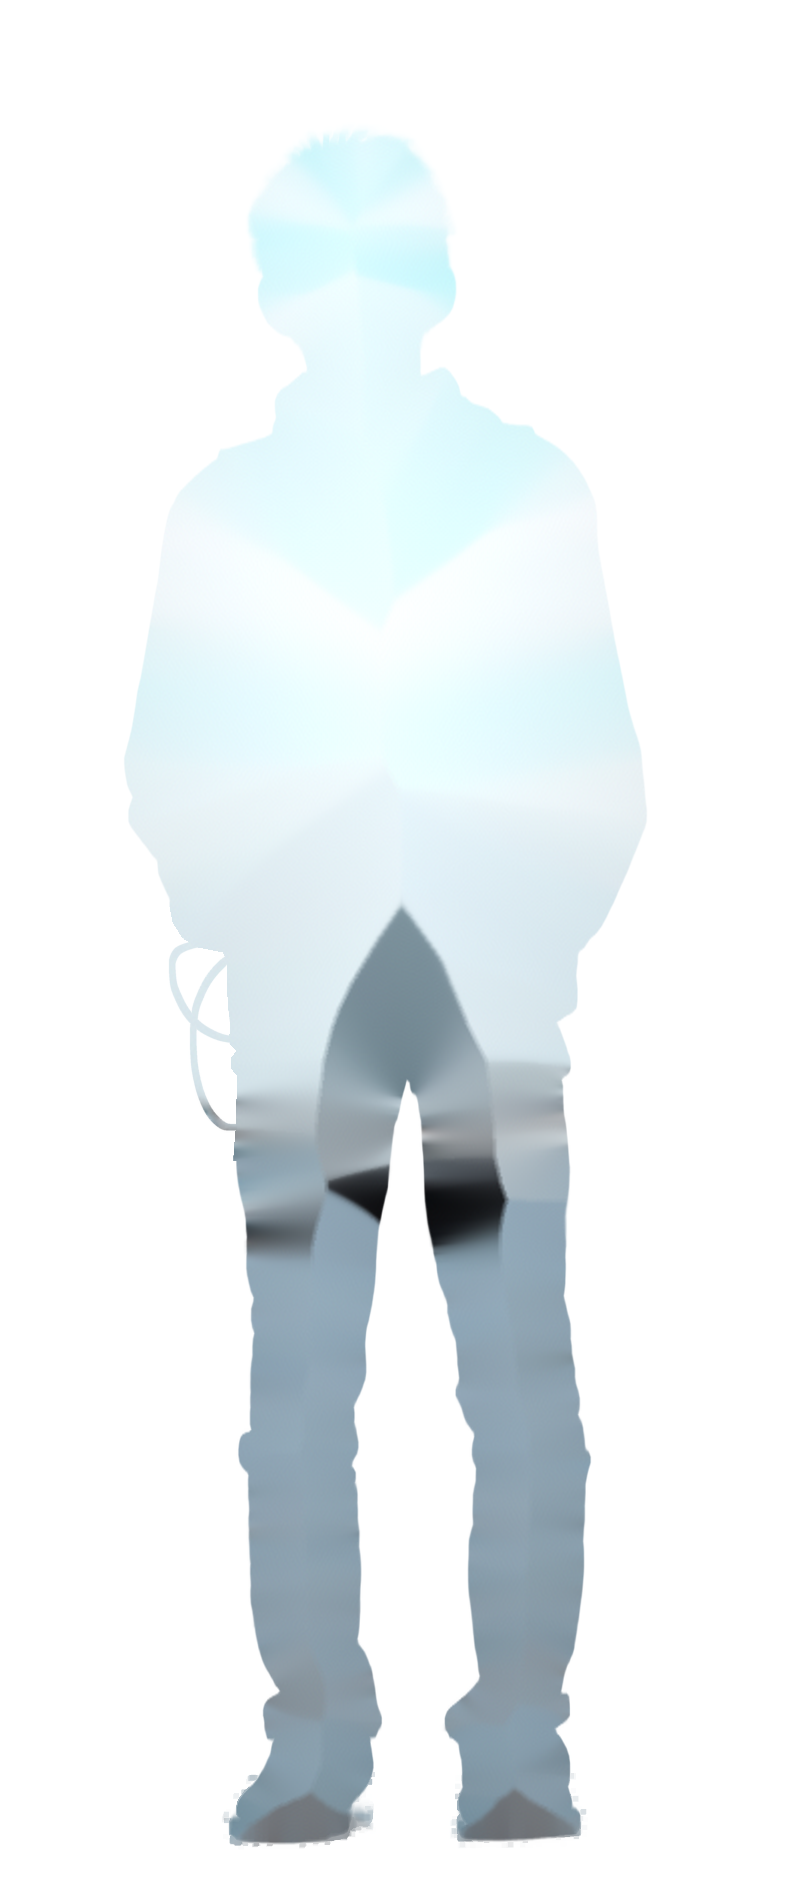
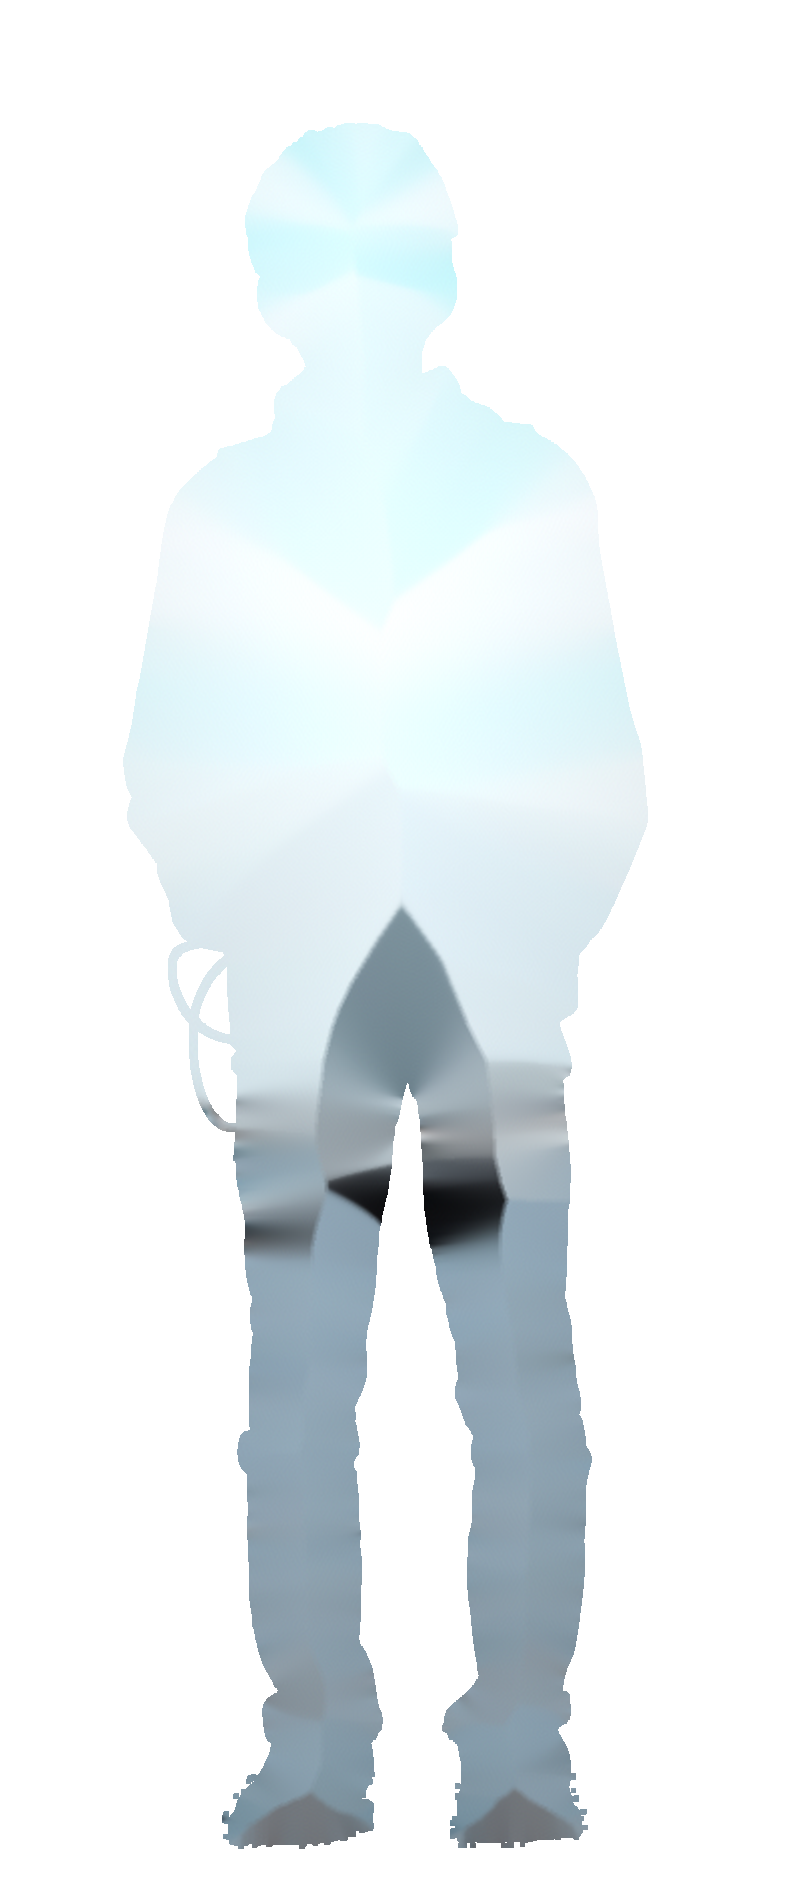
fix: increase mouse parallax travel and cover stationary hair edges

diff --git a/src/scripts/parallax.ts b/src/scripts/parallax.ts
@@ -36,11 +36,11 @@ function render() {
   // Return to the high-resolution original before the cable becomes enlarged.
   const strength = Math.max(0, 2 - zoomScale) ** 2;
   // Shared vertical travel keeps feet planted and architectural edges aligned.
-  const y = currentY * 0.03 * 18 * strength;
+  const y = currentY * 0.03 * 45 * strength;
   // Grow edge coverage with the spring position, avoiding a zoom jump on load.
-  const overscan = 1 + 0.004 * Math.max(Math.abs(currentX), Math.abs(currentY)) * strength;
+  const overscan = 1 + 0.01 * Math.max(Math.abs(currentX), Math.abs(currentY)) * strength;
   for (let i = 0; i < planes.length; i++) {
-    const x = currentX * depths[i] * 24 * strength;
+    const x = currentX * depths[i] * 60 * strength;
     const transform = active
       ? `translate3d(${x}px, ${y}px, 0) scale(${overscan})`
       : 'none';

diff --git a/README.md b/README.md
@@ -69,6 +69,7 @@ npm run build
 マウス操作できる端末では、背景・建物・周囲の人々・本人の4層が、控えめにマウスへ追従します。
 左右の倉庫は同じ層として動かし、地面は背景にまとめています。
 縦方向は全層を一緒に動かして境界のずれを抑え、揺り戻しのない補間を使います。
+本人は中心から左右それぞれ最大9.6px動き、背景・建物・人々は奥行きに応じた小さい移動幅で追従します。
 画像読み込み直後には拡大せず、追従中に必要な分だけ端の余白を広げます。
 
 本人の切り抜きは BiRefNet、周囲の人々は検出とセグメンテーション、建物は原本の色を使った GrabCut を基に調整しました。
